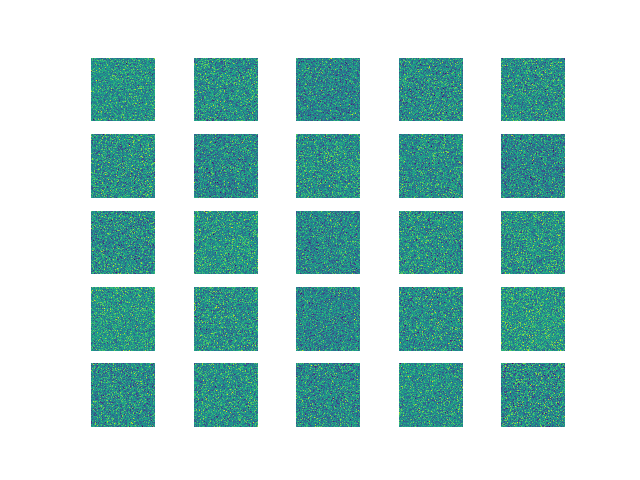
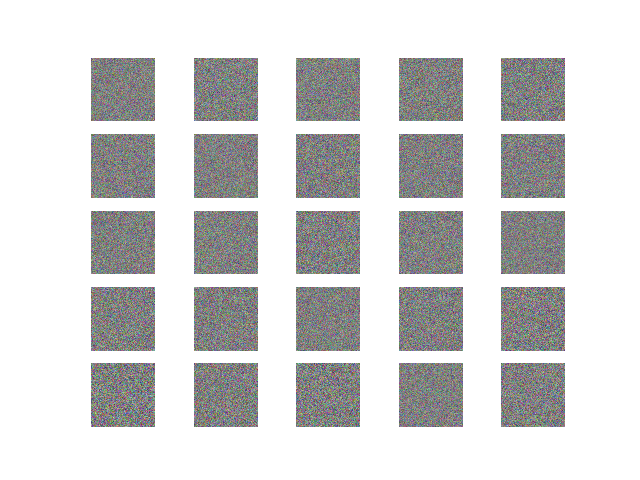
updates to sample_gan.py to produce colored images

diff --git a/gan/sample_gan.py b/gan/sample_gan.py
@@ -52,7 +52,6 @@ class GAN():
     def build_generator(self):
 
         noise_shape = (100,)
-
         model = Sequential()
 
         model.add(Dense(256, input_shape=noise_shape))
@@ -67,7 +66,7 @@ class GAN():
         model.add(Dense(np.prod(self.img_shape), activation='tanh'))
         model.add(Reshape(self.img_shape))
 
-        model.summary()
+        
 
         noise = Input(shape=noise_shape)
         img = model(noise)
@@ -101,13 +100,14 @@ class GAN():
         for myFile in files:
             image = cv2.imread(myFile)
             image = cv2.resize(image, (128, 128))
+
             X_data.append(image)
 
         X_train = np.array(X_data)
 
         # Rescale -1 to 1
         X_train = (X_train.astype(np.float32) - 127.5) / 127.5
-        print(X_train.shape)
+
         # X_train = np.expand_dims(X_train, axis=3)
 
         half_batch = int(batch_size / 2)
@@ -163,9 +163,10 @@ class GAN():
 
         fig, axs = plt.subplots(r, c)
         cnt = 0
+        print(gen_imgs[cnt].shape)
         for i in range(r):
             for j in range(c):
-                axs[i,j].imshow(gen_imgs[cnt, :,:,0])
+                axs[i,j].imshow(cv2.cvtColor(gen_imgs[cnt], cv2.COLOR_BGR2RGB))
                 axs[i,j].axis('off')
                 cnt += 1
         fig.savefig("img_out/deep_cat_%d.png" % epoch)
@@ -174,7 +175,7 @@ class GAN():
 
 if __name__ == '__main__':
     gan = GAN()
-    gan.train(epochs=40000, batch_size=128, save_interval=500)
+    gan.train(epochs=80000, batch_size=32, save_interval=5000)
 
 
 

diff --git a/gan/noise_test.py b/gan/noise_test.py
@@ -1,0 +1,17 @@
+import numpy as np
+import matplotlib.pyplot as plt
+import cv2
+
+noise = np.random.normal(0, 1, (100, 100, 3))
+
+
+
+fig, axs = plt.subplots(5, 5)
+count = 0
+for i in range(5):
+	for j in range(5):
+		axs[i, j].imshow(noise)
+		axs[i, j].axis('off')
+
+fig.savefig('noise_plt.png')
+plt.close()
